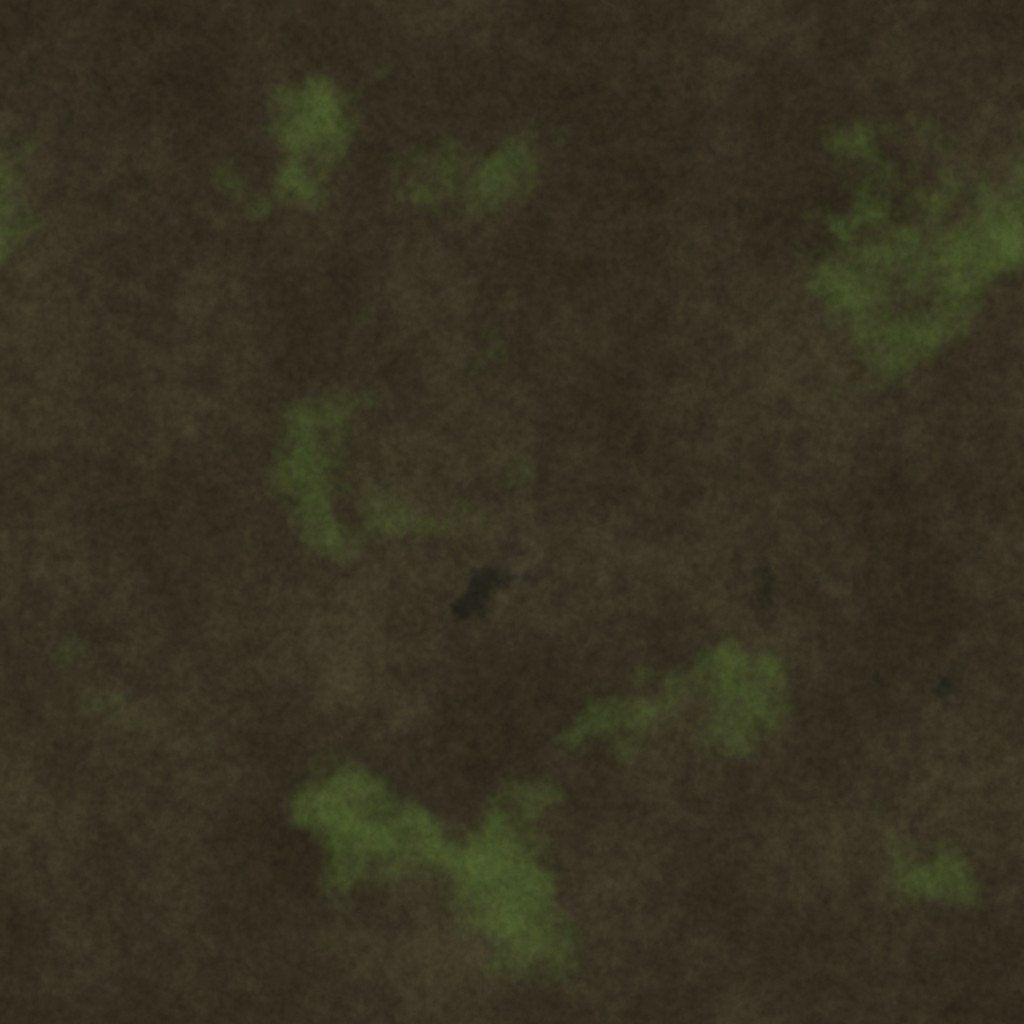
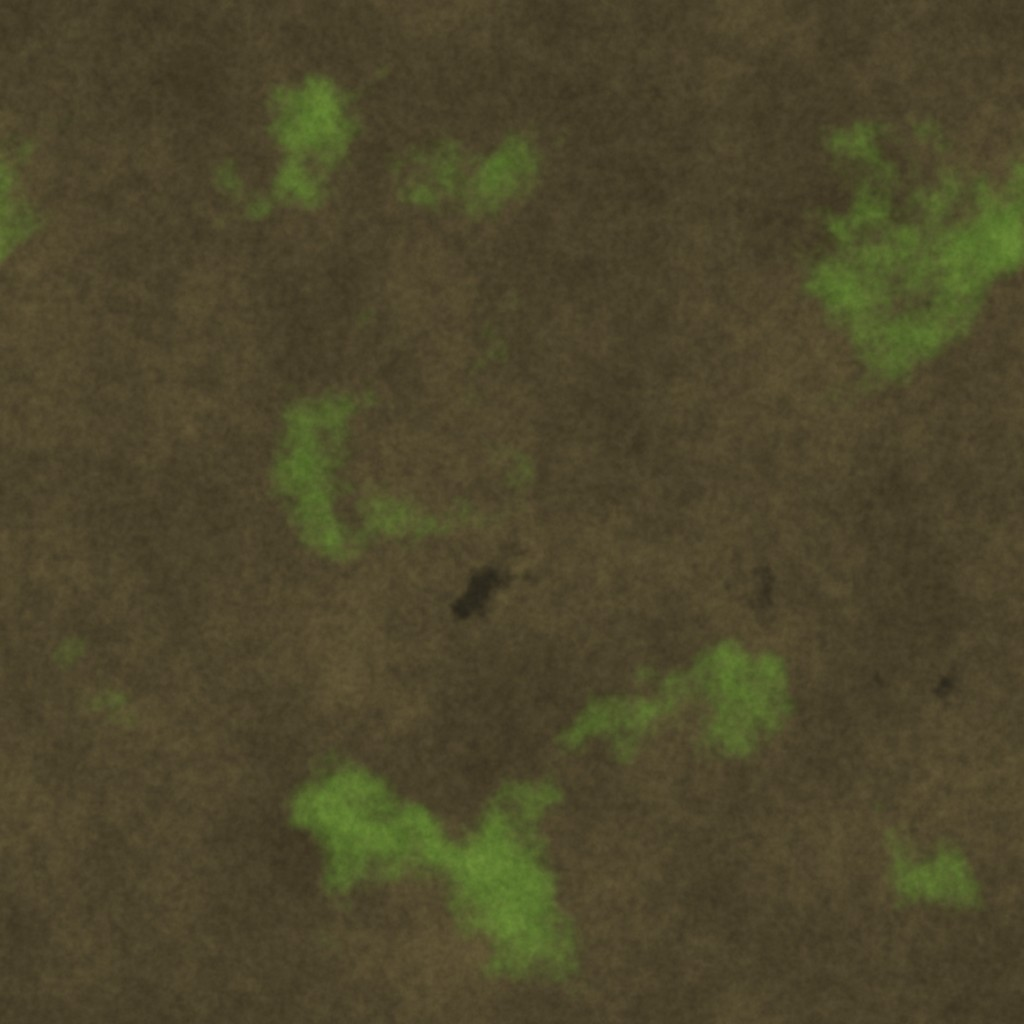
W1-BIOME: separate tropical from temperate and swamp from volcanic; volcanic texture scale

diff --git a/tools/blender/terrain/recipes.py b/tools/blender/terrain/recipes.py
@@ -78,7 +78,7 @@ RECIPES = {
         "rock": rock(["#6c6458", "#80786e", "#958c80"], crack="#4a4238"),
     },
     "tropical": {
-        "ground": grass(["#1f5a22", "#2f7a2c", "#4a9638"], splats=[
+        "ground": grass(["#2a7a26", "#40a034", "#62bc46"], splats=[
             patch(["#185018", "#226622"], 3.5, 0.55, 0.66, 65, 0.8),
             patch(["#5aa040", "#6ab048"], 8.0, 0.68, 0.76, 66, 0.5)]),
         "dirt": soil(["#3a281a", "#4b3424", "#5e4230"]),
@@ -119,8 +119,8 @@ RECIPES = {
     },
     "swamp": {
         # Peat and mud with algae scum and standing water in the low spots.
-        "ground": soil(["#2a2619", "#3a3324", "#4a4430"], seed=101, splats=[
-            patch(["#46552a", "#556632"], 4.0, 0.56, 0.66, 102, 0.8),
+        "ground": soil(["#3e3622", "#524830", "#665a38"], seed=101, splats=[
+            patch(["#5a7a2e", "#6e9038"], 4.0, 0.56, 0.66, 102, 0.9),
             patch(["#1c1c16", "#24241c"], 5.0, 0.66, 0.72, 103, 0.8)]),
         "dirt": soil(["#2e2218", "#3b2c1f", "#4a3828"]),
         "sand": sand(["#6c6250", "#7d725a", "#8e846a"]),
